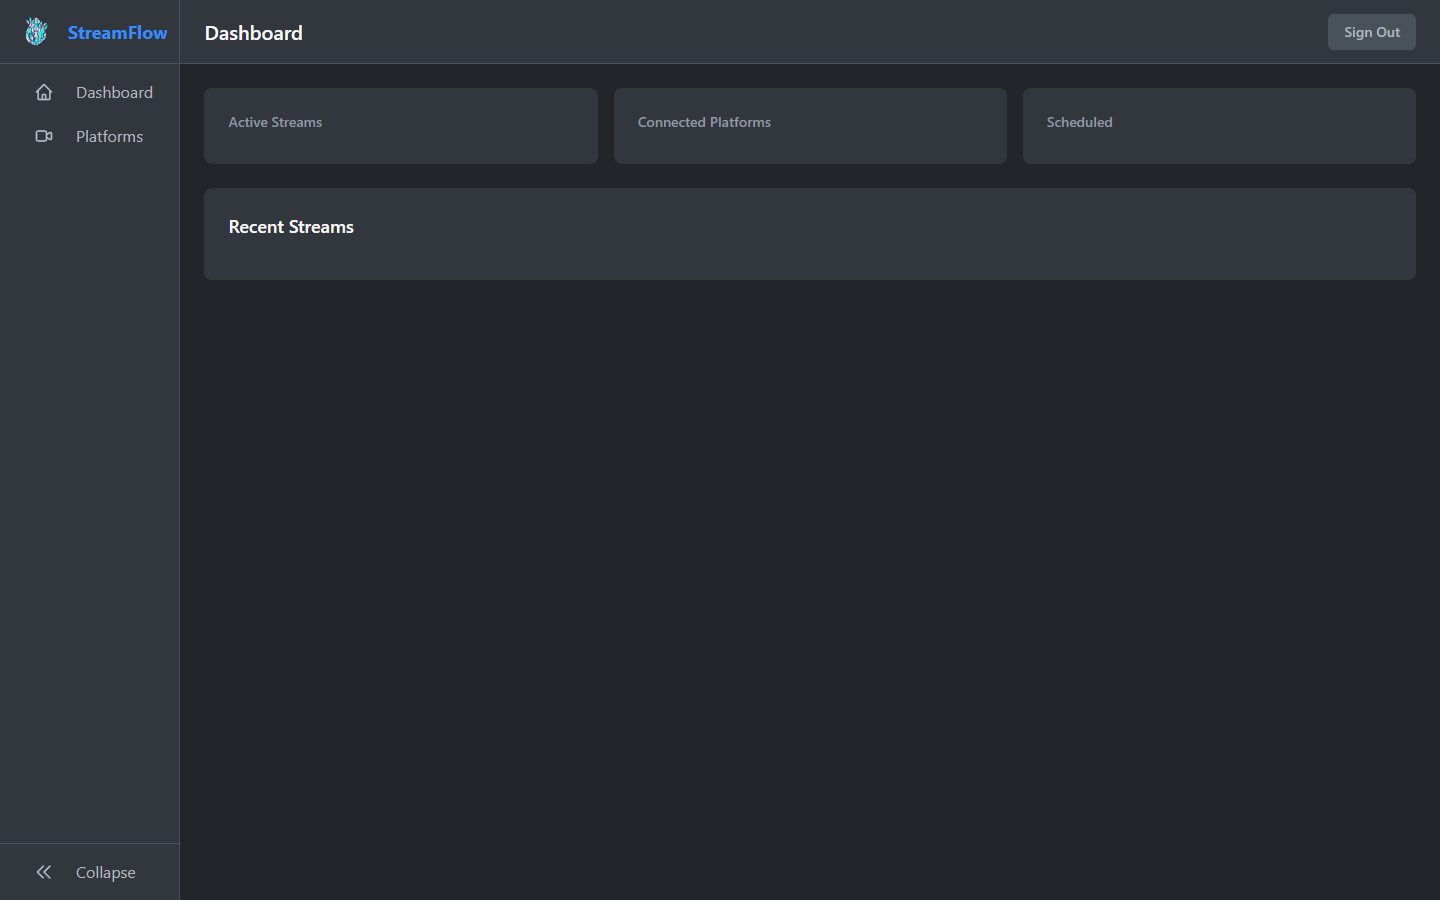
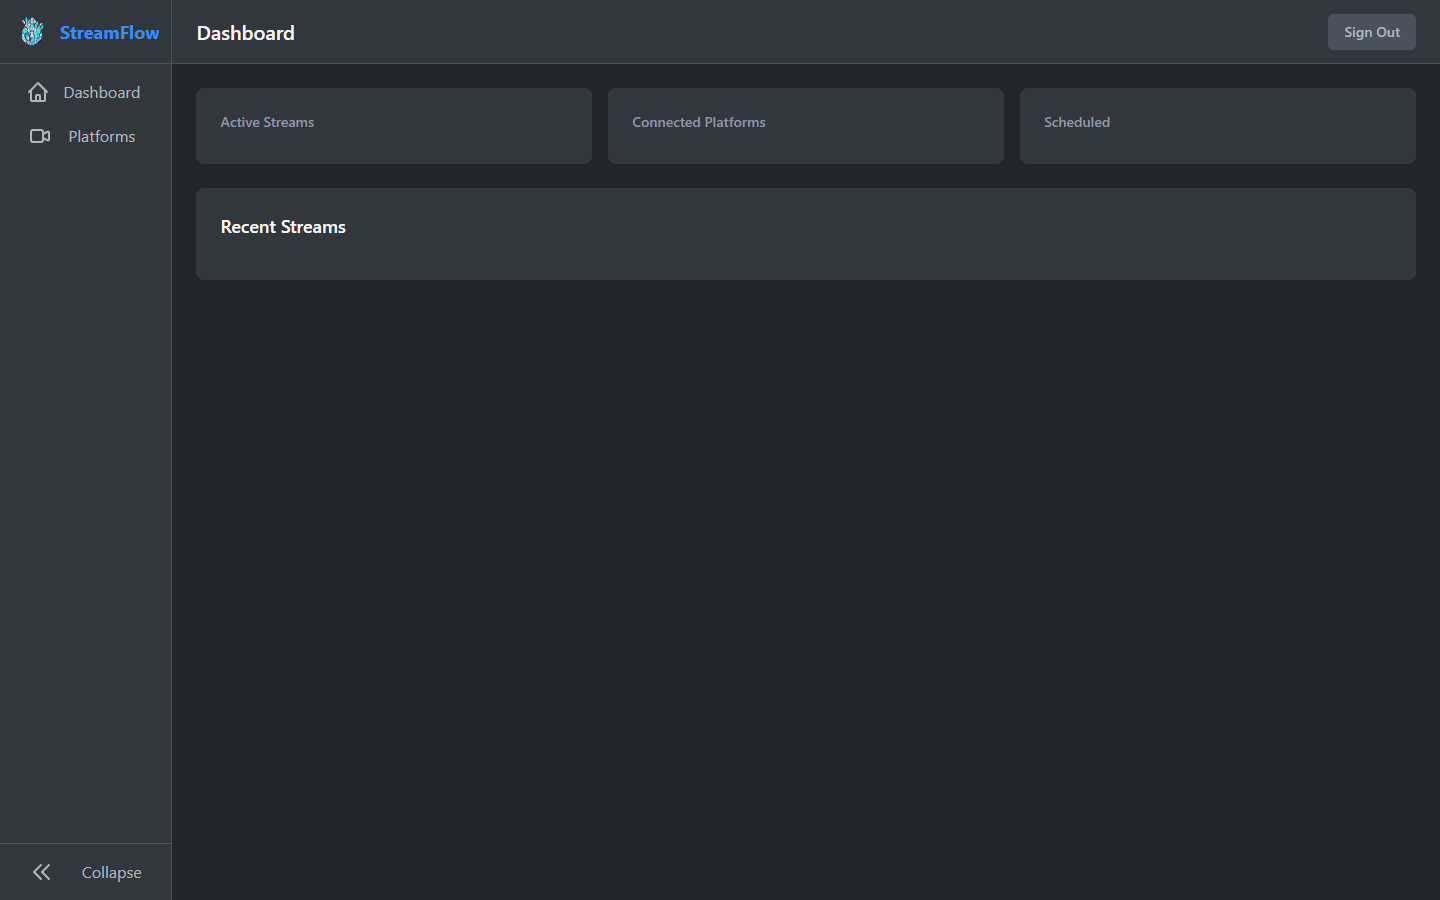
feat: add professional landing page with platform SVGs and dashboard link
- Create comprehensive landing page for non-dev users
- Add platform badges with SVG logos (Twitch, Kick, YouTube) and brand colors
- Make dashboard logo/title a link back to landing page
- Update README with fresh screenshots including new landing page
- Format and lint all code

diff --git a/src/routes/+page.svelte b/src/routes/+page.svelte
@@ -1,29 +1,331 @@
 <script lang="ts">
 	import { resolve } from '$app/paths';
+	import favicon from '$lib/assets/favicon.png';
 </script>
 
 <svelte:head>
-	<title>Ædron Stream Flow</title>
+	<title>StreamFlow — One Dashboard for All Your Streams</title>
+	<meta
+		name="description"
+		content="Manage all your streaming platforms from one dashboard. Sync titles, chat, and overlays across Twitch, Kick, and YouTube Live."
+	/>
 </svelte:head>
 
-<main class="flex min-h-screen flex-col items-center justify-center bg-base-900 p-8">
-	<div class="text-center">
-		<h1 class="mb-4 text-4xl font-bold text-base-50">StreamFlow</h1>
-		<p class="mb-8 text-lg text-base-400">Multi-platform stream management for creators</p>
-
-		<div class="flex gap-4">
-			<a
-				href={resolve('/auth/signin')}
-				class="cursor-pointer rounded-lg bg-primary-600 px-6 py-3 font-semibold text-base-50 transition-colors hover:bg-primary-700"
-			>
-				Get Started
-			</a>
-			<a
-				href={resolve('/app')}
-				class="cursor-pointer rounded-lg border border-base-600 px-6 py-3 font-semibold text-base-50 transition-colors hover:bg-base-700"
-			>
-				Dashboard
-			</a>
+<div class="min-h-screen bg-base-900">
+	<header class="sticky top-0 z-50 border-b border-base-700 bg-base-800/95 backdrop-blur-sm">
+		<div class="mx-auto flex h-16 max-w-7xl items-center justify-between px-6">
+			<div class="flex items-center gap-3">
+				<img src={favicon} alt="" class="h-10 w-10" />
+				<span class="text-lg font-bold text-primary-400">StreamFlow</span>
+			</div>
+			<div class="flex items-center gap-3">
+				<a
+					href="https://github.com/aedrondouren/Aedron-StreamFlow"
+					target="_blank"
+					rel="noopener noreferrer"
+					class="flex items-center gap-2 rounded-md px-3 py-2 text-sm font-medium text-base-300 transition-colors hover:bg-base-700 hover:text-base-50"
+				>
+					<svg class="h-5 w-5" fill="currentColor" viewBox="0 0 24 24" aria-hidden="true">
+						<path
+							fill-rule="evenodd"
+							d="M12 2C6.477 2 2 6.484 2 12.017c0 4.425 2.865 8.18 6.839 9.504.5.092.682-.217.682-.483 0-.237-.008-.868-.013-1.703-2.782.605-3.369-1.343-3.369-1.343-.454-1.158-1.11-1.466-1.11-1.466-.908-.62.069-.608.069-.608 1.003.07 1.531 1.032 1.531 1.032.892 1.53 2.341 1.088 2.91.832.092-.647.35-1.088.636-1.338-2.22-.253-4.555-1.113-4.555-4.951 0-1.093.39-1.988 1.029-2.688-.103-.253-.446-1.272.098-2.65 0 0 .84-.27 2.75 1.026A9.564 9.564 0 0112 6.844c.85.004 1.705.115 2.504.337 1.909-1.296 2.747-1.027 2.747-1.027.546 1.379.202 2.398.1 2.651.64.7 1.028 1.595 1.028 2.688 0 3.848-2.339 4.695-4.566 4.943.359.309.678.92.678 1.855 0 1.338-.012 2.419-.012 2.747 0 .268.18.58.688.482A10.019 10.019 0 0022 12.017C22 6.484 17.522 2 12 2z"
+							clip-rule="evenodd"
+						/>
+					</svg>
+					<span class="hidden sm:inline">GitHub</span>
+				</a>
+				<a
+					href={resolve('/app')}
+					class="rounded-md bg-primary-600 px-4 py-2 text-sm font-medium text-base-50 transition-colors hover:bg-primary-700"
+				>
+					Dashboard
+				</a>
+			</div>
 		</div>
-	</div>
-</main>
+	</header>
+
+	<main>
+		<section class="relative overflow-hidden px-6 py-24 sm:py-32">
+			<div class="mx-auto max-w-4xl text-center">
+				<h1 class="text-4xl font-bold tracking-tight text-base-50 sm:text-6xl">
+					One dashboard to rule<br />all your streams
+				</h1>
+				<p class="mx-auto mt-6 max-w-2xl text-lg text-base-400">
+					Manage all your streaming platforms from a single place. Sync your titles, chat with your
+					viewers, and control your stream — all at once.
+				</p>
+				<div class="mt-10 flex items-center justify-center gap-4">
+					<a
+						href={resolve('/app')}
+						class="rounded-lg bg-primary-600 px-8 py-3 text-base font-semibold text-base-50 transition-colors hover:bg-primary-700"
+					>
+						Get Started
+					</a>
+				</div>
+			</div>
+		</section>
+
+		<section class="border-y border-base-800 bg-base-800/50 px-6 py-24">
+			<div class="mx-auto max-w-7xl">
+				<div class="text-center">
+					<h2 class="text-3xl font-bold text-base-50">Everything you need to stream</h2>
+					<p class="mt-4 text-base-400">Powerful features designed for multi-platform streamers</p>
+				</div>
+				<div class="mt-16 grid gap-8 sm:grid-cols-2 lg:grid-cols-4">
+					<div class="rounded-xl border border-base-700 bg-base-800 p-6">
+						<div class="flex h-12 w-12 items-center justify-center rounded-lg bg-primary-600/10">
+							<svg
+								class="h-6 w-6 text-primary-400"
+								fill="none"
+								stroke="currentColor"
+								viewBox="0 0 24 24"
+							>
+								<path
+									stroke-linecap="round"
+									stroke-linejoin="round"
+									stroke-width="2"
+									d="M4 4v5h.582m15.356 2A8.001 8.001 0 004.582 9m0 0H9m11 11v-5h-.581m0 0a8.003 8.003 0 01-15.357-2m15.357 2H15"
+								/>
+							</svg>
+						</div>
+						<h3 class="mt-4 text-lg font-semibold text-base-50">Sync Everything</h3>
+						<p class="mt-2 text-sm text-base-400">
+							Update your stream title, description, and tags across all platforms at once.
+						</p>
+					</div>
+					<div class="rounded-xl border border-base-700 bg-base-800 p-6">
+						<div class="flex h-12 w-12 items-center justify-center rounded-lg bg-primary-600/10">
+							<svg
+								class="h-6 w-6 text-primary-400"
+								fill="none"
+								stroke="currentColor"
+								viewBox="0 0 24 24"
+							>
+								<path
+									stroke-linecap="round"
+									stroke-linejoin="round"
+									stroke-width="2"
+									d="M8 12h.01M12 12h.01M16 12h.01M21 12c0 4.418-4.03 8-9 8a9.863 9.863 0 01-4.255-.949L3 20l1.395-3.72C3.512 15.042 3 13.574 3 12c0-4.418 4.03-8 9-8s9 3.582 9 8z"
+								/>
+							</svg>
+						</div>
+						<h3 class="mt-4 text-lg font-semibold text-base-50">One Chat</h3>
+						<p class="mt-2 text-sm text-base-400">
+							View and respond to all your platform chats from a single window.
+						</p>
+					</div>
+					<div class="rounded-xl border border-base-700 bg-base-800 p-6">
+						<div class="flex h-12 w-12 items-center justify-center rounded-lg bg-primary-600/10">
+							<svg
+								class="h-6 w-6 text-primary-400"
+								fill="none"
+								stroke="currentColor"
+								viewBox="0 0 24 24"
+							>
+								<path
+									stroke-linecap="round"
+									stroke-linejoin="round"
+									stroke-width="2"
+									d="M9.75 17L9 20l-1 1h8l-1-1-.75-3M3 13h18M5 17h14a2 2 0 002-2V5a2 2 0 00-2-2H5a2 2 0 00-2 2v10a2 2 0 002 2z"
+								/>
+							</svg>
+						</div>
+						<h3 class="mt-4 text-lg font-semibold text-base-50">Stream Overlays</h3>
+						<p class="mt-2 text-sm text-base-400">
+							Platform-specific overlays that work with your streaming software.
+						</p>
+					</div>
+					<div class="rounded-xl border border-base-700 bg-base-800 p-6">
+						<div class="flex h-12 w-12 items-center justify-center rounded-lg bg-primary-600/10">
+							<svg
+								class="h-6 w-6 text-primary-400"
+								fill="none"
+								stroke="currentColor"
+								viewBox="0 0 24 24"
+							>
+								<path
+									stroke-linecap="round"
+									stroke-linejoin="round"
+									stroke-width="2"
+									d="M13 10V3L4 14h7v7l9-11h-7z"
+								/>
+							</svg>
+						</div>
+						<h3 class="mt-4 text-lg font-semibold text-base-50">Always Synced</h3>
+						<p class="mt-2 text-sm text-base-400">
+							Changes sync instantly across all your devices in real-time.
+						</p>
+					</div>
+				</div>
+			</div>
+		</section>
+
+		<section class="px-6 py-24">
+			<div class="mx-auto max-w-7xl">
+				<div class="text-center">
+					<h2 class="text-3xl font-bold text-base-50">Works with your favorite platforms</h2>
+					<p class="mt-4 text-base-400">Connect and manage multiple streaming services</p>
+				</div>
+				<div class="mt-12 flex flex-wrap items-center justify-center gap-6">
+					<a
+						href="https://www.twitch.tv"
+						target="_blank"
+						rel="noopener noreferrer"
+						class="flex items-center gap-2 rounded-full border border-base-700 bg-base-800 px-6 py-3 transition-colors hover:bg-base-700"
+					>
+						<svg class="h-5 w-5 text-twitch-500" viewBox="0 0 24 24" fill="currentColor">
+							<path
+								d="M11.571 4.714h1.715v5.143H11.57zm4.715 0H18v5.143h-1.714zM6 0L1.714 4.286v15.428h5.143V24l4.286-4.286h3.428L22.286 12V0zm14.571 11.143l-3.428 3.428h-3.429l-3 3v-3H6.857V1.714h13.714Z"
+							/>
+						</svg>
+						<span class="font-medium text-base-50">Twitch</span>
+					</a>
+					<a
+						href="https://kick.com"
+						target="_blank"
+						rel="noopener noreferrer"
+						class="flex items-center gap-2 rounded-full border border-base-700 bg-base-800 px-6 py-3 transition-colors hover:bg-base-700"
+					>
+						<svg class="h-5 w-5 text-kick-500" viewBox="0 0 24 24" fill="currentColor">
+							<path
+								d="M3.98 3h6.01v4h2V5h2V3H20v6.01h-2v2h-2v2h2v2h2v6.01h-6.01v-2h-2v-2h-2v4H3.98z"
+							/>
+						</svg>
+						<span class="font-medium text-base-50">Kick</span>
+					</a>
+					<a
+						href="https://www.youtube.com/live"
+						target="_blank"
+						rel="noopener noreferrer"
+						class="flex items-center gap-2 rounded-full border border-base-700 bg-base-800 px-6 py-3 transition-colors hover:bg-base-700"
+					>
+						<svg class="h-5 w-5 text-youtube-500" viewBox="0 0 24 24" fill="currentColor">
+							<path
+								d="M23.498 6.186a3.016 3.016 0 0 0-2.122-2.136C19.505 3.545 12 3.545 12 3.545s-7.505 0-9.377.505A3.017 3.017 0 0 0 .502 6.186C0 8.07 0 12 0 12s0 3.93.502 5.814a3.016 3.016 0 0 0 2.122 2.136c1.871.505 9.376.505 9.376.505s7.505 0 9.377-.505a3.015 3.015 0 0 0 2.122-2.136C24 15.93 24 12 24 12s0-3.93-.502-5.814zM9.545 15.568V8.432L15.818 12l-6.273 3.568z"
+							/>
+						</svg>
+						<span class="font-medium text-base-50">YouTube Live</span>
+					</a>
+				</div>
+				<p class="mt-8 text-center text-sm text-base-500">More platforms coming soon</p>
+			</div>
+		</section>
+
+		<section class="border-y border-base-800 bg-base-800/50 px-6 py-24">
+			<div class="mx-auto max-w-4xl">
+				<div class="text-center">
+					<h2 class="text-3xl font-bold text-base-50">How it works</h2>
+					<p class="mt-4 text-base-400">Get started in three simple steps</p>
+				</div>
+				<div class="mt-16 grid gap-8 sm:grid-cols-3">
+					<div class="relative text-center">
+						<div
+							class="mx-auto flex h-16 w-16 items-center justify-center rounded-full bg-primary-600/10"
+						>
+							<svg
+								class="h-8 w-8 text-primary-400"
+								fill="none"
+								stroke="currentColor"
+								viewBox="0 0 24 24"
+							>
+								<path
+									stroke-linecap="round"
+									stroke-linejoin="round"
+									stroke-width="2"
+									d="M13.828 10.172a4 4 0 00-5.656 0l-4 4a4 4 0 105.656 5.656l1.102-1.101m-.758-4.899a4 4 0 005.656 0l4-4a4 4 0 00-5.656-5.656l-1.1 1.1"
+								/>
+							</svg>
+						</div>
+						<div class="mt-4 text-2xl font-bold text-primary-400">1</div>
+						<h3 class="mt-2 text-lg font-semibold text-base-50">Connect Accounts</h3>
+						<p class="mt-2 text-sm text-base-400">Link your streaming platforms securely</p>
+					</div>
+					<div class="relative text-center">
+						<div
+							class="mx-auto flex h-16 w-16 items-center justify-center rounded-full bg-primary-600/10"
+						>
+							<svg
+								class="h-8 w-8 text-primary-400"
+								fill="none"
+								stroke="currentColor"
+								viewBox="0 0 24 24"
+							>
+								<path
+									stroke-linecap="round"
+									stroke-linejoin="round"
+									stroke-width="2"
+									d="M12 6V4m0 2a2 2 0 100 4m0-4a2 2 0 110 4m-6 8a2 2 0 100-4m0 4a2 2 0 110-4m0 4v2m0-6V4m6 6v10m6-2a2 2 0 100-4m0 4a2 2 0 110-4m0 4v2m0-6V4"
+								/>
+							</svg>
+						</div>
+						<div class="mt-4 text-2xl font-bold text-primary-400">2</div>
+						<h3 class="mt-2 text-lg font-semibold text-base-50">Manage Streams</h3>
+						<p class="mt-2 text-sm text-base-400">Control everything from one dashboard</p>
+					</div>
+					<div class="relative text-center">
+						<div
+							class="mx-auto flex h-16 w-16 items-center justify-center rounded-full bg-primary-600/10"
+						>
+							<svg
+								class="h-8 w-8 text-primary-400"
+								fill="none"
+								stroke="currentColor"
+								viewBox="0 0 24 24"
+							>
+								<path
+									stroke-linecap="round"
+									stroke-linejoin="round"
+									stroke-width="2"
+									d="M15 10l4.553-2.276A1 1 0 0121 8.618v6.764a1 1 0 01-1.447.894L15 14M5 18h8a2 2 0 002-2V8a2 2 0 00-2-2H5a2 2 0 00-2 2v8a2 2 0 002 2z"
+								/>
+							</svg>
+						</div>
+						<div class="mt-4 text-2xl font-bold text-primary-400">3</div>
+						<h3 class="mt-2 text-lg font-semibold text-base-50">Go Live</h3>
+						<p class="mt-2 text-sm text-base-400">Stream to all platforms simultaneously</p>
+					</div>
+				</div>
+			</div>
+		</section>
+
+		<section class="px-6 py-24">
+			<div class="mx-auto max-w-4xl text-center">
+				<h2 class="text-3xl font-bold text-base-50">Ready to simplify your streams?</h2>
+				<p class="mt-4 text-base-400">
+					Join streamers who manage their content smarter, not harder.
+				</p>
+				<div class="mt-10">
+					<a
+						href={resolve('/app')}
+						class="inline-block rounded-lg bg-primary-600 px-8 py-3 text-base font-semibold text-base-50 transition-colors hover:bg-primary-700"
+					>
+						Get Started Now
+					</a>
+				</div>
+			</div>
+		</section>
+	</main>
+
+	<footer class="border-t border-base-800 bg-base-800/50 px-6 py-8">
+		<div class="mx-auto max-w-7xl">
+			<div class="flex flex-col items-center justify-between gap-4 sm:flex-row">
+				<p class="text-sm text-base-500">© 2025 Aedron</p>
+				<a
+					href="https://github.com/aedrondouren"
+					target="_blank"
+					rel="noopener noreferrer"
+					class="flex items-center gap-2 text-sm text-base-500 transition-colors hover:text-base-300"
+				>
+					<svg class="h-4 w-4" fill="currentColor" viewBox="0 0 24 24" aria-hidden="true">
+						<path
+							fill-rule="evenodd"
+							d="M12 2C6.477 2 2 6.484 2 12.017c0 4.425 2.865 8.18 6.839 9.504.5.092.682-.217.682-.483 0-.237-.008-.868-.013-1.703-2.782.605-3.369-1.343-3.369-1.343-.454-1.158-1.11-1.466-1.11-1.466-.908-.62.069-.608.069-.608 1.003.07 1.531 1.032 1.531 1.032.892 1.53 2.341 1.088 2.91.832.092-.647.35-1.088.636-1.338-2.22-.253-4.555-1.113-4.555-4.951 0-1.093.39-1.988 1.029-2.688-.103-.253-.446-1.272.098-2.65 0 0 .84-.27 2.75 1.026A9.564 9.564 0 0112 6.844c.85.004 1.705.115 2.504.337 1.909-1.296 2.747-1.027 2.747-1.027.546 1.379.202 2.398.1 2.651.64.7 1.028 1.595 1.028 2.688 0 3.848-2.339 4.695-4.566 4.943.359.309.678.92.678 1.855 0 1.338-.012 2.419-.012 2.747 0 .268.18.58.688.482A10.019 10.019 0 0022 12.017C22 6.484 17.522 2 12 2z"
+							clip-rule="evenodd"
+						/>
+					</svg>
+					github.com/aedrondouren
+				</a>
+			</div>
+		</div>
+	</footer>
+</div>

diff --git a/src/routes/(protected)/app/+layout.svelte b/src/routes/(protected)/app/+layout.svelte
@@ -38,8 +38,9 @@
 		class="flex shrink-0 flex-col overflow-hidden border-r border-base-700 bg-base-800 transition-[width] duration-300 ease-in-out"
 	>
 		<!-- Logo Header - Grid layout with uniform icon sizing -->
-		<div
-			class="grid h-16 w-full shrink-0 grid-cols-[auto_auto] items-center border-b border-base-700 px-3"
+		<a
+			href={resolve('/')}
+			class="grid h-16 w-full shrink-0 grid-cols-[auto_auto] items-center border-b border-base-700 px-3 transition-colors hover:bg-base-700/50"
 		>
 			<!-- Icon - Auto-sized column, centered content -->
 			<div class="flex items-center justify-center">
@@ -51,7 +52,7 @@
 			>
 				<span class="pl-2 text-lg font-bold whitespace-nowrap text-primary-400">StreamFlow</span>
 			</div>
-		</div>
+		</a>
 
 		<!-- Navigation - Fixed icon columns, overflow text containers -->
 		<nav class="flex flex-1 flex-col gap-1 overflow-hidden p-2">

diff --git a/README.md b/README.md
@@ -39,6 +39,12 @@
 ## 📸 Screenshots
 
 <p align="center">
+  <img src=".repo/screenshots/landing-page.png" alt="Landing Page" width="600"/>
+  <br/>
+  <em>Professional landing page showcasing features and supported platforms</em>
+</p>
+
+<p align="center">
   <img src=".repo/screenshots/signin-page.png" alt="Sign In" width="600"/>
   <br/>
   <em>Secure authentication with email and OAuth</em>
